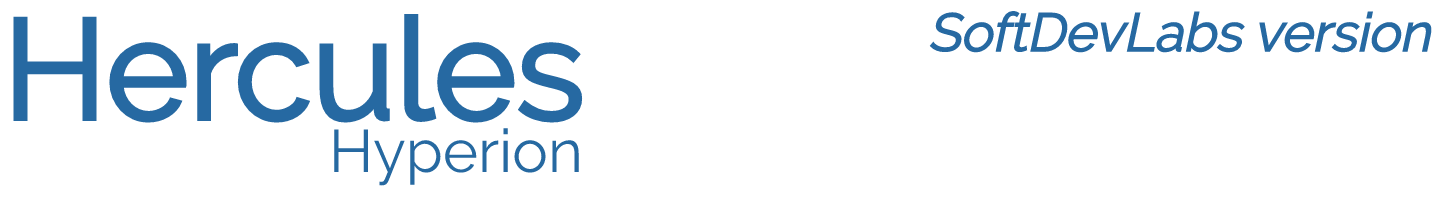
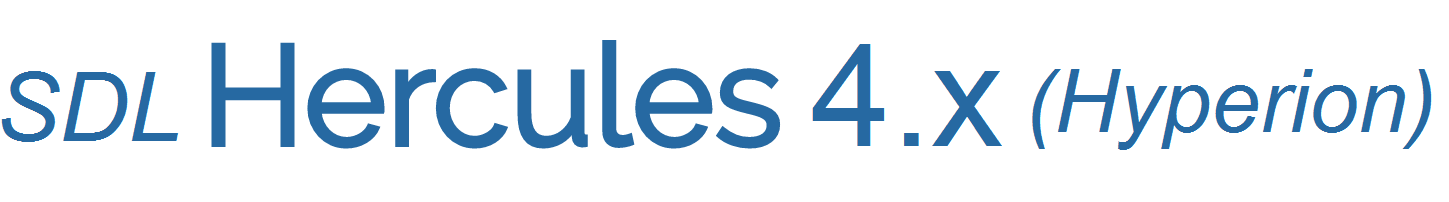
Clear up misconceptions regarding "SDL" Hercules 4.x Hyperion:
Make appropriate updates to documentation, images and text to make very clear that this is NOT a "SoftDevLabs" version/product of Hercules! The "SDL" in its name is just a name, and is used to distinguish it from the other versions of Hercules that are out there. Nothing more. The existence of "SDL" in its name does NOT mean to imply Hercules is in any way associate with Software Development Laboratories. (I have also updated my own web site as well to try and make that clear.)

HERCULES IS NOT MINE! Hercules belongs to the Hercules project. Hercules belongs to the community. I am simply a member of the Hercules development team, that's all. A single contributor. Nothing more.

Changed region(s): [[0.0, 0.0594, 0.9938, 0.9208], [0.9006, 0.3564, 0.9317, 0.3861]]

diff --git a/html/index.html b/html/index.html
@@ -31,15 +31,13 @@ The Hercules System/370, ESA/390, and z/Architecture Emulator
 <h1>The Hercules System/370, ESA/390, and z/Architecture Emulator</h1>
 
 <hr noshade>
-<center><h2>Hercules 4.x Hyperion</h2></center>
-<center><h3>(SoftDevLabs)</h3></center>
+<center><h2>SDL Hercules 4.x Hyperion</h2></center>
 <hr noshade>
 
 <p>
 
-This is the official web page for the <i><u>SoftDevLabs</u></i> maintained
-version of the original 4.0 version of the hercules-390 mainframe emulator,
-code named <b>"Hyperion"</b>.
+This is the official web page for the SDL 4.x version
+of the hercules-390 mainframe emulator, code named <b>"Hyperion"</b>.
 
 <br /><br />
 
@@ -51,20 +49,36 @@ and Mac OS X.
 
 <br /><br />
 
-This version of Hercules is the <i>SoftDevLabs</i> development version
-of the Hercules emulator containing bleeding edge changes made by myself
-and others to address bugs that may or may not still exist in the original
-version or to add new features and functionality above and beyond what
-exists in the original version.
+This version of Hercules is the <b>SDL</b> version of the Hercules emulator
+containing fixes to address bugs that may or may not still exist in the
+original 3.x and/or 4.0 versions of Hercules, or to add new features and
+functionality above and beyond what exists in the original versions.
+SDL Hercules 4.x Hyperion is consider to be the most current up to date
+version of the Hercules emulator in existence at the time this writing.
 
 <p>
 
-Hercules was created by Roger Bowler.
+<b>Hercules was created by</b> Roger Bowler.
 Jay Maynard (&#8220;the Tron Guy&#8221;) was the maintainer from 2000 to 2012.
 Jan Jaeger designed and implemented many of the advanced features of
 Hercules, including dynamic reconfiguration, integrated console,
 interpretive execution and z/Architecture support. A dedicated crew of
 programmers is constantly at work implementing new features and fixing bugs.
+
+<p>
+
+<b>Please Note</b> that this version of Hercules is only called the "SDL" version
+in order to distinguish it from any other versions of Hercules that may be out
+there, and not for any other reason.
+
+This version of Hercules was neither created by, nor is owned by, nor maintained
+or supported by
+<a href="http://www.softdevlabs.com">Software Development Laboratories</a>.
+
+Hercules it not the work of any one person. It was created by <i><u>many</u></i>
+very smart and talented individuals over the course of many years. For a list
+of just <i>some</i> of these many very talented people, please refer to question
+<a href="https://sdl-hercules-390.github.io/html/hercfaq.html#6.01">6.01 of our FAQ</a>.
 
 <hr noshade>
 
@@ -264,7 +278,7 @@ for this SoftDevLabs version of Hercules 4.x Hyperion.
 
 <h4>PDF manuals:</h4>
 The below PDF manuals are for the <i>original</i> 4.0 version of Hercules Hyperion,
-<i>not</i> for this SoftDevLabs version. At the moment however they should still be
+<i>not</i> for this SDL version. At the moment however they should still be
 reasonably accurate. Over time as more and more changes are made to the SDL version
 however, they might not be. The <a href="#docs">official web documentation</a>
 however should always be accurate and considered as authoritative.
@@ -332,9 +346,9 @@ web page on his SoftDevLabs web site.
         &nbsp; &nbsp; (https://github.com/sdl-hercules-390/hyperion)
     <dd>
         <p>
-        This repository is the official <b><i>SoftDevLabs</i></b> version of
-        Hercules Hyperion containing fixes for bugs that may or may not still
-        exist in the original Hercules. It also contains support for QDIO/OSA,
+        This repository is the official SDL version of Hercules 4.x Hyperion
+        containing fixes for bugs that may or may not still exist in other
+        versions of Hercules. It also contains support for QDIO/OSA,
         MPCPTP6 networking interfaces, a redesigned I/O subsystem and many
         other advanced features above and beyond the original version of Hercules.
         </p>
@@ -373,7 +387,7 @@ for <a href="https://sdl-hercules-390.github.io/html/">SDL Hercules Hyperion</a>
 <a href="https://github.com/sdl-hercules-390/hyperion/issues"><b>Github issue tracker</b></a>
 <i>(preferred)</i>:
 <ul>
-    <li><a href="https://github.com/sdl-hercules-390/hyperion/issues">Issues with SoftDevLabs Hercules 4.x Hyperion</a>
+    <li><a href="https://github.com/sdl-hercules-390/hyperion/issues">Issues with SDL Hercules 4.x Hyperion</a>
 </ul>
 or alternatively via message to our discussion group:
 <ul>

diff --git a/cnsllogo.h b/cnsllogo.h
@@ -107,7 +107,7 @@ static char *herclogo[]={
 "",
 "",
 "         The Hercules S/370, ESA/390 and z/Architecture Emulator",
-"                 Software Development Laboratories",
+"                          SDL 4.x Hyperion",
 "           _    _                            _",
 "          | |  | |                          (_)",
 "          | |__| | _   _  _ __    ___  _ __  _   ___   _ __",

diff --git a/README.md b/README.md
@@ -1,7 +1,7 @@
 ![SDL Hyperion](./readme/images/image_header_herculeshyperionSDL.png)  
 [![Build Status](https://travis-ci.org/SDL-Hercules-390/hyperion.svg?branch=master)](https://travis-ci.org/SDL-Hercules-390/hyperion)
 
-## The [SoftDevLabs](http://www.softdevlabs.com) version of Hercules 4.x (Hyperion)
+## SDL Hercules 4.x Hyperion
 
 ## Contents
 
@@ -15,15 +15,13 @@
 
 Hercules is [OSI Certified Open Source Software](http://www.opensource.org/) licensed under the terms of the [Q Public Licence](http://sdl-hercules-390.github.io/html/herclic.html).
 
-This version of Hercules 4.x Hyperion is a SoftDevLabs maintained version of the Hercules emulator containing fixes made by myself and others for bugs that may still exist in the original hercules-390 version of Hercules 4.0 Hyperion, as well as enhancements and improvements to the overall functionality above and beyond what is provided by the hercules-390 version of Hercules.
+SDL Hercules 4.x Hyperion is a version of Hercules containing fixes made by the Hercules development team as well as by others to fix bugs which may still exist in the 3.x and 4.0 versions of Hercules, as well as enhancements and improvements to the emulator's overall functionality above and beyond what may have been provided in earlier versions. It is currently the only actively maintained version and is considered an official version of the Hercules-390 emulator.
 
 Hercules was created by Roger Bowler.
 
 Jay Maynard "the Tron Guy" was the maintainer from 2000 to 2012.
 
 Jan Jaeger designed and implemented many of the advanced features of Hercules, including dynamic reconfiguration, integrated console, interpretive execution and z/Architecture support.
-
-The SoftDevLabs version of Hercules 4.x Hyperion is currently the only 'active' version of the Hercules emulator in existence (so it seems).
 
 ## Find out more
 
